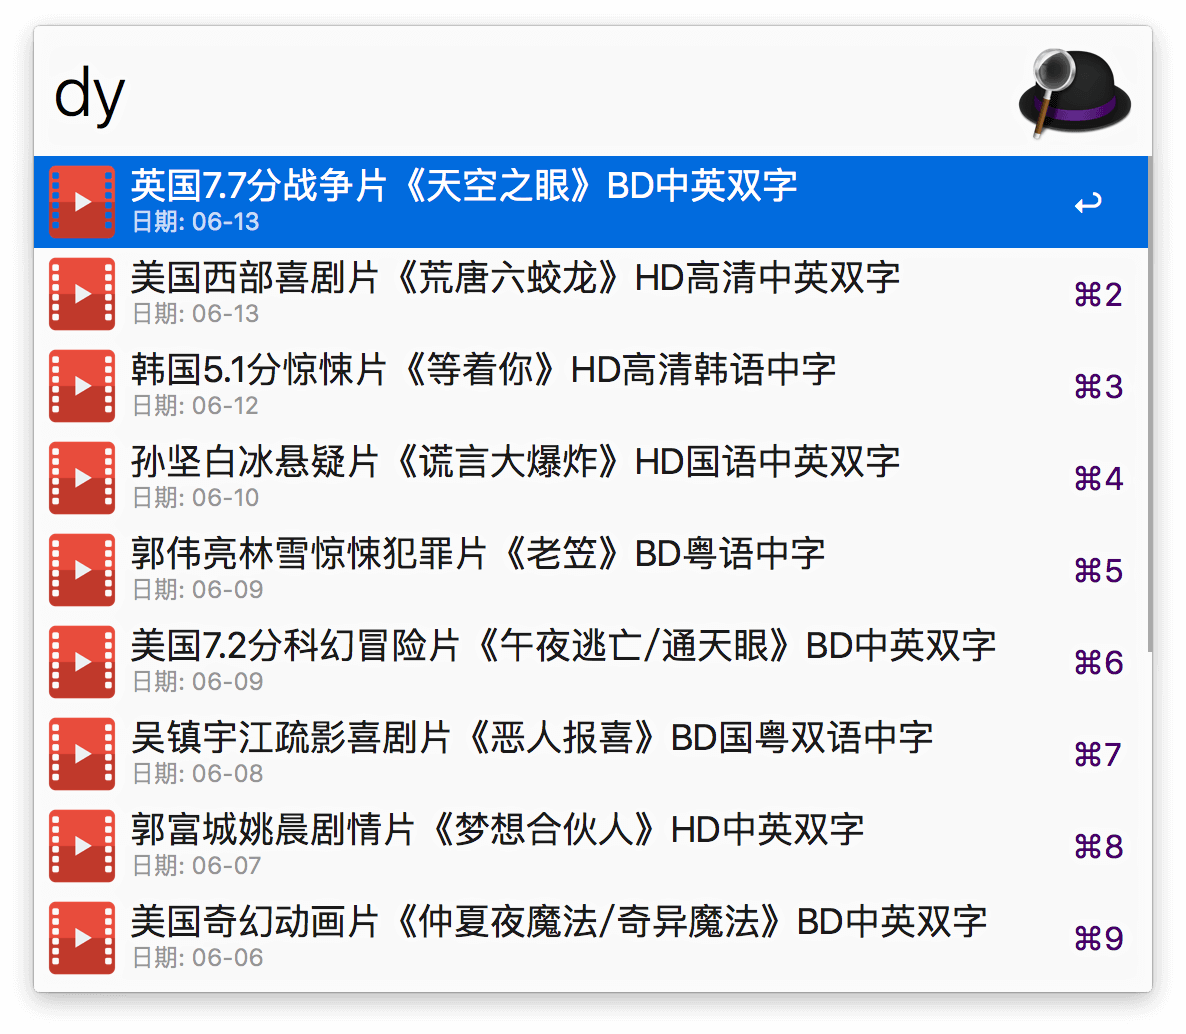
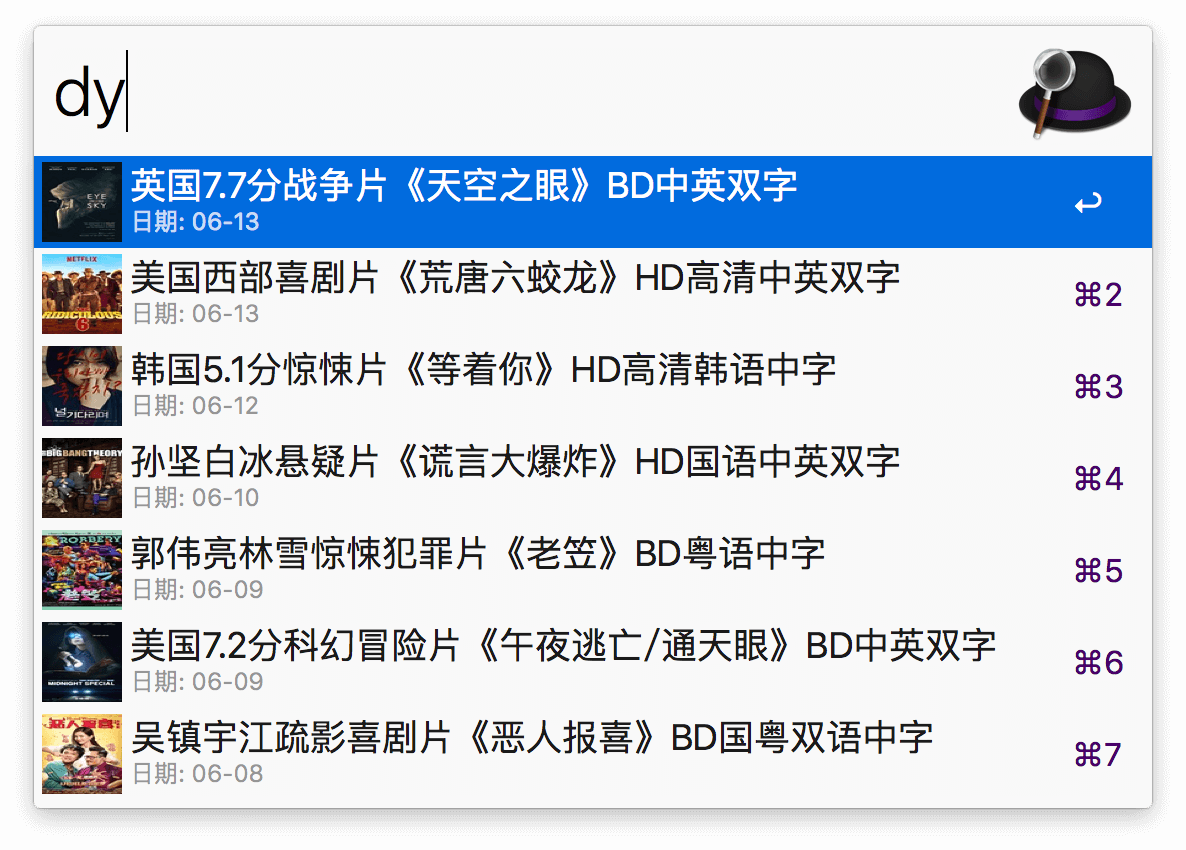
add:able to get film poster from douban api.

Changed region(s): [[0.0312, 0.0306, 0.9983, 0.9788], [0.9047, 0.6118, 0.9671, 0.8259], [0.9047, 0.8565, 0.9671, 0.9176]]

diff --git a/dytt.py b/dytt.py
@@ -5,6 +5,8 @@
 # url: http://devework.com/
 
 import os
+import re
+import json
 import urllib2
 import sys
 from xml.etree import ElementTree as ET
@@ -36,19 +38,39 @@ def get_film_info():
     only_hotl_tags = SoupStrainer(class_='co_content222')
     soup = BeautifulSoup(content, "html.parser", parse_only=only_hotl_tags)
     i = 0
-    for link in soup.find_all('li', limit=15):
+
+    key = re.compile(r'《(.+?)》')
+
+    for link in soup.find_all('li', limit=7):
 
         link_url = target_url + link.findChildren('a')[0].get('href')
-
-        link_title = link.findChildren('a')[0].get('title')[5:]
-        # link_title = link.findChildren('a')[0].get('title')[5:]
-
         link_time = link.findChildren('span')[0].string
+        link_title = link.findChildren('a')[0].get('title')[5:]
 
-        json_item = dict(title=link_title, subtitle='日期: '+link_time, arg=link_url, icon='icon.png')
+        file_name = re.findall(u'《(.*?)[【|》]', link_title)[0]
+
+        # print file_name.encode("utf-8")
+
+        douban_api = 'https://api.douban.com/v2/movie/search?q=' + file_name.encode("utf-8")
+        user_agent = 'Mozilla/5.0 (Windows; U; Windows NT 6.1; en-US; rv:1.9.1.6) Gecko/20091201 Firefox/3.5.6'
+        headers = {'User-Agent': user_agent}
+        req = urllib2.Request(douban_api, None, headers)
+        api_content = urllib2.urlopen(req)
+        json_content = json.load(api_content)['subjects'][0]['images']['small']
+        img_url = json_content
+        #print img_url
+
+        save_path = os.path.abspath("./icons/icon")
+        img_data = urllib2.urlopen(img_url).read()
+        file_name = save_path + str(i) + '.jpg'
+        output = open(file_name, 'wb+')
+        output.write(img_data)
+        output.close()
+
+        json_item = dict(title=link_title, subtitle='日期: '+link_time, arg=link_url, icon='icons/icon' + str(i) + '.jpg')
         items.append(json_item)
         i = i + 1
 
     return generate_xml(items)
 
-# print get_film_info()
+print get_film_info()

diff --git a/README.md b/README.md
@@ -22,9 +22,9 @@
 
 - 增加Alt 按钮下复制下载链接的功能
 
-- item 的icon 获取为资源封面海报
-
 ## 其它
+
+小问题：由于需要轮番查询豆瓣的API 以获取电影海报封面作为icon，所以速度上略慢，待优化。
 
 Powered by JeffMa at [DeveWork.com](http://devework.com/)， feel free to use :)
 
